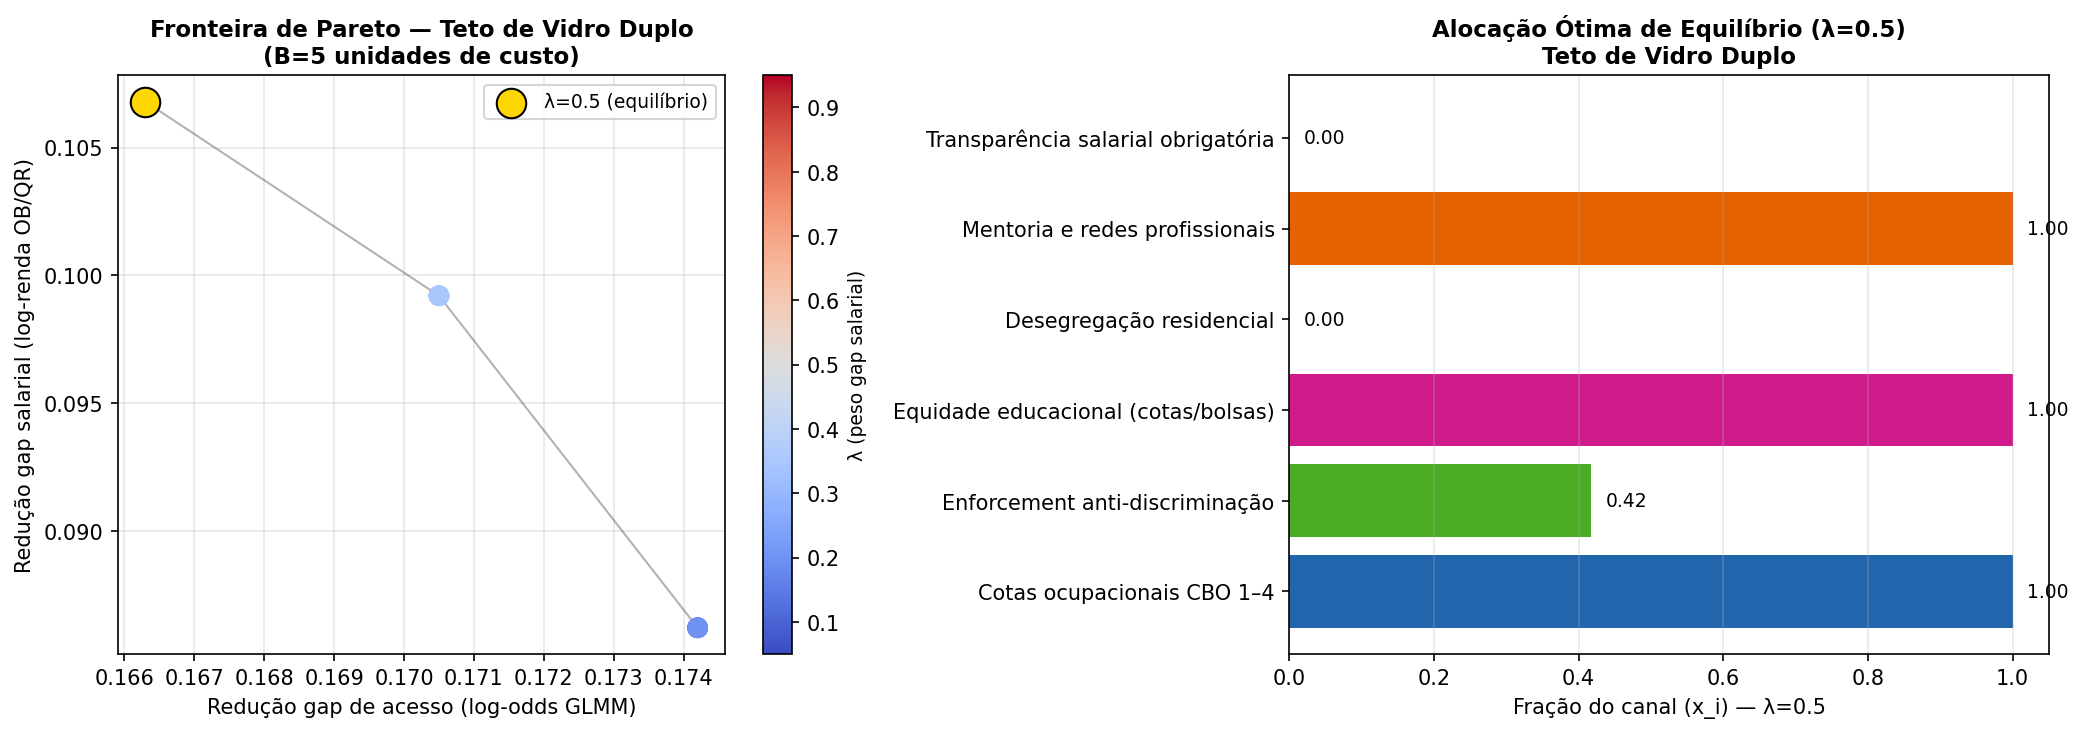
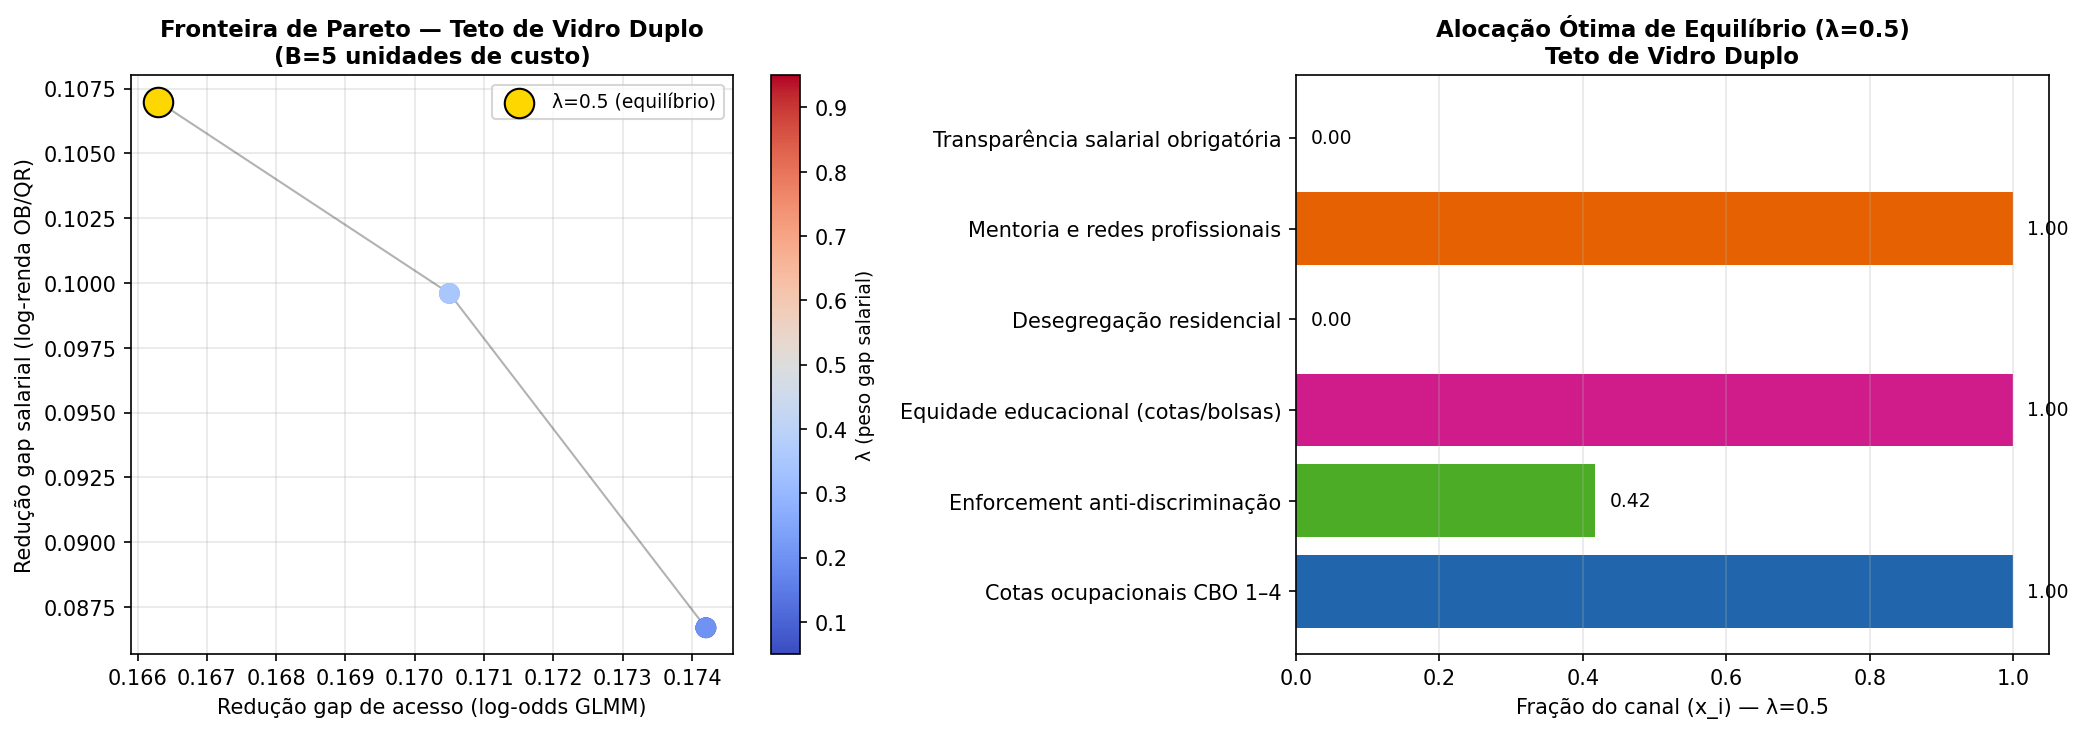
feat: adiciona outputs k-means k=2 e atualiza figuras PO
- outputs k=2: perfis, composição racial, gap (CSV, PNG, LaTeX)
- po_politicas: figuras e tabelas PL-1/PL-2 atualizadas

diff --git a/outputs/tables/po_politicas.tex b/outputs/tables/po_politicas.tex
@@ -13,8 +13,8 @@
     & \textbf{Intervenção} & $g_i$ & $\alpha_i$ & $c_i$ & $T$ (anos) & $x_i^*(B=5)$ \\
     \midrule
   P1 & Cotas ocupacionais CBO 1–4 & 0.1184 & 0.35 & 1.5 & 2 & 1.00 \\
-  P2 & Enforcement anti-discriminação & 0.0679 & 0.20 & 1.2 & 3 & 0.42 \\
-  P3 & Equidade educacional (cotas/bolsas) & 0.1775 & 0.25 & 2.0 & 8 & 1.00 \\
+  P2 & Enforcement anti-discriminação & 0.0702 & 0.20 & 1.2 & 3 & 0.42 \\
+  P3 & Equidade educacional (cotas/bolsas) & 0.1776 & 0.25 & 2.0 & 8 & 1.00 \\
   P4 & Desegregação residencial & 0.0945 & 0.10 & 4.0 & 15 & 0.00 \\
   P5 & Mentoria e redes profissionais & 0.0511 & 0.30 & 1.0 & 2 & 1.00 \\
   P6 & Transparência salarial obrigatória & 0.0193 & 0.25 & 0.8 & 1 & 0.00 \\
@@ -33,12 +33,12 @@
     \toprule
     \# & \textbf{Política} & $C_1$ (gap sal.) & $C_2$ (gap aces.) & $C_4$ (custo-ef.) & CC (TOPSIS) \\
     \midrule
-  1 & Cotas ocupacionais CBO 1–4 & 0.0414 & 0.0967 & 0.233 & 0.8347 \\
-  2 & Equidade educacional (cotas/bolsas) & 0.0444 & 0.0297 & 0.125 & 0.5881 \\
+  1 & Cotas ocupacionais CBO 1–4 & 0.0414 & 0.0967 & 0.233 & 0.8344 \\
+  2 & Equidade educacional (cotas/bolsas) & 0.0444 & 0.0297 & 0.125 & 0.5879 \\
   3 & Mentoria e redes profissionais & 0.0153 & 0.0296 & 0.300 & 0.3962 \\
-  4 & Transparência salarial obrigatória & 0.0048 & 0.0156 & 0.312 & 0.3420 \\
-  5 & Enforcement anti-discriminação & 0.0136 & 0.0249 & 0.167 & 0.2703 \\
-  6 & Desegregação residencial & 0.0095 & 0.0044 & 0.025 & 0.0806 \\
+  4 & Transparência salarial obrigatória & 0.0048 & 0.0156 & 0.312 & 0.3422 \\
+  5 & Enforcement anti-discriminação & 0.0140 & 0.0249 & 0.167 & 0.2753 \\
+  6 & Desegregação residencial & 0.0095 & 0.0044 & 0.025 & 0.0805 \\
     \bottomrule
   \end{tabular}
 \end{table}

diff --git a/outputs/tables/kmeans_perfis_k2.tex b/outputs/tables/kmeans_perfis_k2.tex
@@ -1,0 +1,13 @@
+\begin{table}
+\caption{Perfis dos Clusters Socieconomicos (k=2) -- PNAD Continua 2016-2025. MiniBatchKMeans sobre 10 variaveis padronizadas. Valores medios por cluster.}
+\label{tab:kmeans_perfis}
+\begin{tabular}{lrrrrrrrrrrrrl}
+\toprule
+ & N & % total & % Negro & % Mulher & % Empregado & log_Renda & Renda Bruta (R$) & % Medio Compl. & % Superior Compl. & % Pos-Grad. & PctNegroUPA_z & DesempregoUPA_z & Descricao \\
+cluster &  &  &  &  &  &  &  &  &  &  &  &  &  \\
+\midrule
+0 & 4560705 & 59.270000 & 82.700000 & 39.600000 & 100.000000 & 6.989600 & 1482.524780 & 0.038500 & 0.311600 & 0.010300 & 0.524200 & 0.274600 & Cluster 0: renda media (83% negros) \\
+1 & 3133493 & 40.730000 & 21.100000 & 44.200000 & 100.000000 & 7.829000 & 3603.197998 & 0.049400 & 0.146700 & 0.004000 & -1.023000 & -0.609300 & Cluster 1: alta renda (21% negros) \\
+\bottomrule
+\end{tabular}
+\end{table}